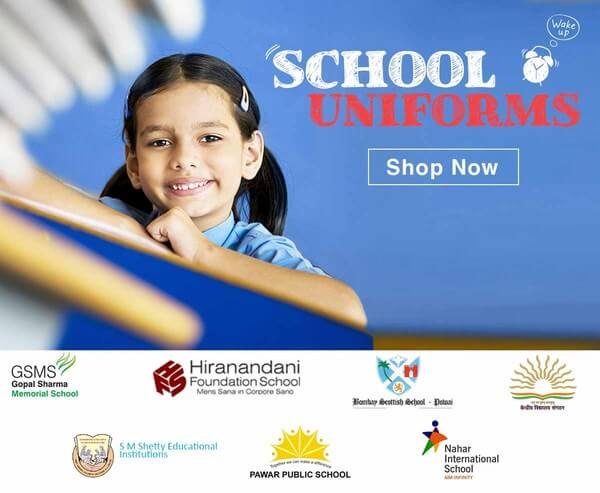
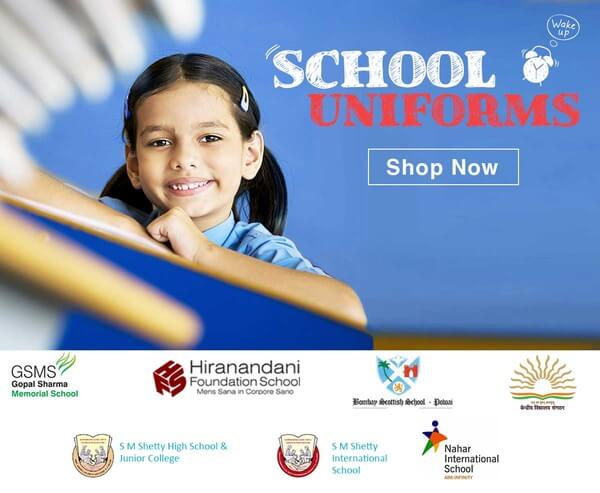
links updated

Changed region(s): [[0.42, 0.8519, 0.66, 0.9736], [0.18, 0.8824, 0.39, 0.9432]]

diff --git a/kss-pwa-app/src/app/landing-page/landing-page/landing-page.component.html b/kss-pwa-app/src/app/landing-page/landing-page/landing-page.component.html
@@ -29,22 +29,22 @@
 				</div>
 			</div>
 
-			<!-- <div class="col-12 col-md-4">
+			<div class="col-12 col-md-4">
 				<div class="card shadow-sm mb-5">
 					<img src="/assets/img/uniforms/Hiranandani-Foundation-School.png" class="img-fluid m-auto d-block school-img" alt="Hiranandani Foundation School" title="Hiranandani Foundation School">
 					<img src="/assets/img/uniforms/hfs_main_logo.jpg" class="img-fluid mx-auto d-block my-4 school-logo" alt="Hiranandani Foundation School" title="Hiranandani Foundation School">
 					<div class="card-body">
 						<div class="row text-center">
 							<div class="col-6">
-								<a href="https://www.kidsuperstore.in/shop?pf=tag:gsis-boys" class="btn btn-outline-dark w-100 text-uppercase">Boys' <br><strong>Uniform</strong></a>
+								<a href="https://www.kidsuperstore.in/shop?pf=tag:hiranandani-foundation-school-boys" class="btn btn-outline-dark w-100 text-uppercase">Boys' <br><strong>Uniform</strong></a>
 							</div>
 							<div class="col-6">
-								<a href="https://www.kidsuperstore.in/shop?pf=tag:gsis-girls" class="btn btn-outline-dark w-100 text-uppercase">Girls' <br><strong>Uniform</strong></a>
+								<a href="https://www.kidsuperstore.in/shop?pf=tag:hiranandani-foundation-school-girls" class="btn btn-outline-dark w-100 text-uppercase">Girls' <br><strong>Uniform</strong></a>
 							</div>
 						</div>
 					</div>
 				</div>
-			</div> -->
+			</div>
 
 			<div class="col-12 col-md-4">
 				<div class="card shadow-sm mb-5">
@@ -63,22 +63,22 @@
 				</div>
 			</div>
 
-			<!-- <div class="col-12 col-md-4">
+			<div class="col-12 col-md-4">
 				<div class="card shadow-sm mb-5">
 					<img src="/assets/img/uniforms/kvs.jpg" class="img-fluid m-auto d-block school-img" alt="KVS" title="KVS">
 					<img src="/assets/img/uniforms/kvslogo.jpg" class="img-fluid mx-auto d-block my-4 school-logo" alt="KVS" title="KVS">
 					<div class="card-body">
 						<div class="row text-center">
 							<div class="col-6">
-								<a href="https://www.kidsuperstore.in/shop?pf=tag:gsis-boys" class="btn btn-outline-dark w-100 text-uppercase">Boys' <br><strong>Uniform</strong></a>
+								<a href="https://www.kidsuperstore.in/shop?pf=tag:kv-boys" class="btn btn-outline-dark w-100 text-uppercase">Boys' <br><strong>Uniform</strong></a>
 							</div>
 							<div class="col-6">
-								<a href="https://www.kidsuperstore.in/shop?pf=tag:gsis-girls" class="btn btn-outline-dark w-100 text-uppercase">Girls' <br><strong>Uniform</strong></a>
+								<a href="https://www.kidsuperstore.in/shop?pf=tag:kv-girls" class="btn btn-outline-dark w-100 text-uppercase">Girls' <br><strong>Uniform</strong></a>
 							</div>
 						</div>
 					</div>
 				</div>
-			</div> -->
+			</div>
 
 			<div class="col-12 col-md-4">
 				<div class="card shadow-sm mb-5">
@@ -91,6 +91,23 @@
 							</div>
 							<div class="col-6">
 								<a href="https://www.kidsuperstore.in/shop?pf=tag:smsi-girls" class="btn btn-outline-dark w-100 text-uppercase">Girls' <br><strong>Uniform</strong></a>
+							</div>
+						</div>
+					</div>
+				</div>
+			</div>
+
+			<div class="col-12 col-md-4">
+				<div class="card shadow-sm mb-5">
+					<img src="/assets/img/uniforms/SM-shetty.jpg" class="img-fluid m-auto d-block school-img" alt="SM Shetty International School" title="SM Shetty International School">
+					<img src="/assets/img/uniforms/SMShetty-International.png" class="img-fluid mx-auto d-block my-4 school-logo" alt="SM Shetty International School" title="SM Shetty International School">
+					<div class="card-body">
+						<div class="row text-center">
+							<div class="col-6">
+								<a href="https://www.kidsuperstore.in/shop?pf=tag:sms-ssc-boys" class="btn btn-outline-dark w-100 text-uppercase">Boys' <br><strong>Uniform</strong></a>
+							</div>
+							<div class="col-6">
+								<a href="https://www.kidsuperstore.in/shop?pf=tag:sms-ssc-girls" class="btn btn-outline-dark w-100 text-uppercase">Girls' <br><strong>Uniform</strong></a>
 							</div>
 						</div>
 					</div>
